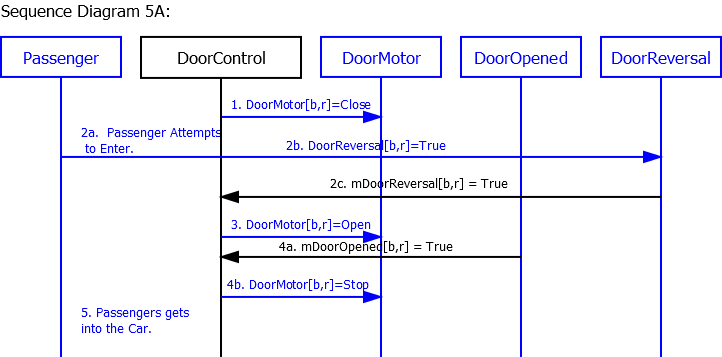
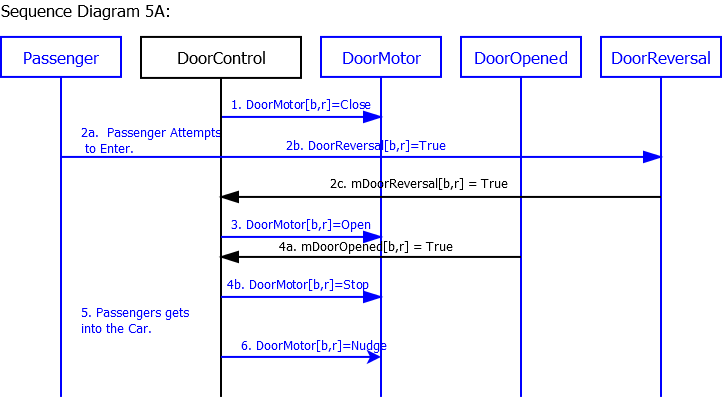
My updates to the SD 5a and 9a.  5b didn't need to be changed.

Changed region(s): [[0.0, 0.0924, 1.0, 0.9244], [0.0914, 0.7703, 0.2742, 0.9552], [0.0, 0.0, 0.2438, 0.0616]]

diff --git a/portfolio_template/scen_sd/scen_sd.html b/portfolio_template/scen_sd/scen_sd.html
@@ -410,6 +410,7 @@
         <li>Car is stopped at passenger's floor <b>f</b> and hallway <b>b</b>.
         </li>
         <li>At least one door[<b>b</b>,<b>r</b>] is open. </li>
+        <li>A door reversal has already been triggered at least twice while the car was at this floor.</li>
       </ul>
       <h3> Scenario: </h3>
       <ol>
@@ -419,11 +420,12 @@
         <li>DoorMotor[b,r] commanded to Open.</li>
         <li>Doors finish Opening.</li>
         <li>Passenger gets into the car.</li>
+        <li>Door[b,r] starts to nudge.</li>
       </ol>
       <h3> Post-Conditions: </h3>
       <ol>
         <li>Passenger is in the elevator.</li>
-        <li>Doors[b,r] are completely open.<br>
+        <li>At least one door[<b>b</b>,<b>r</b>] is open.<br>
         </li>
       </ol>
       <h3> Sequence Diagram: </h3>
@@ -675,14 +677,16 @@
       <h3>Author name: Jiangtian Nie </h3>
       <h3> Pre-Conditions: </h3>
       <ul type="disc">
-        <li>Car is stopped. </li>
+        <li>Car is stopped at floor f. </li>
         <li>AtFloor[f,b] was last received as True. </li>
         <li>All doors are closed. </li>
+        <li>There is an outstanding hall call for floor g, hallway b, where g > f.</li>
       </ul>
       <h3> Scenario: </h3>
       <ol>
         <li>Door[b,r] commanded to open.</li>
         <li>Dispatcher sets next desired floor.</li>
+        <li>CarLantern[UP] lights up to reflect the new desired direction</li>
         <li>Door[b,r] finish opening.</li>
         <li>Door[b,r] commanded to close.</li>
         <li>Door[b,r] finish closing.<br>
